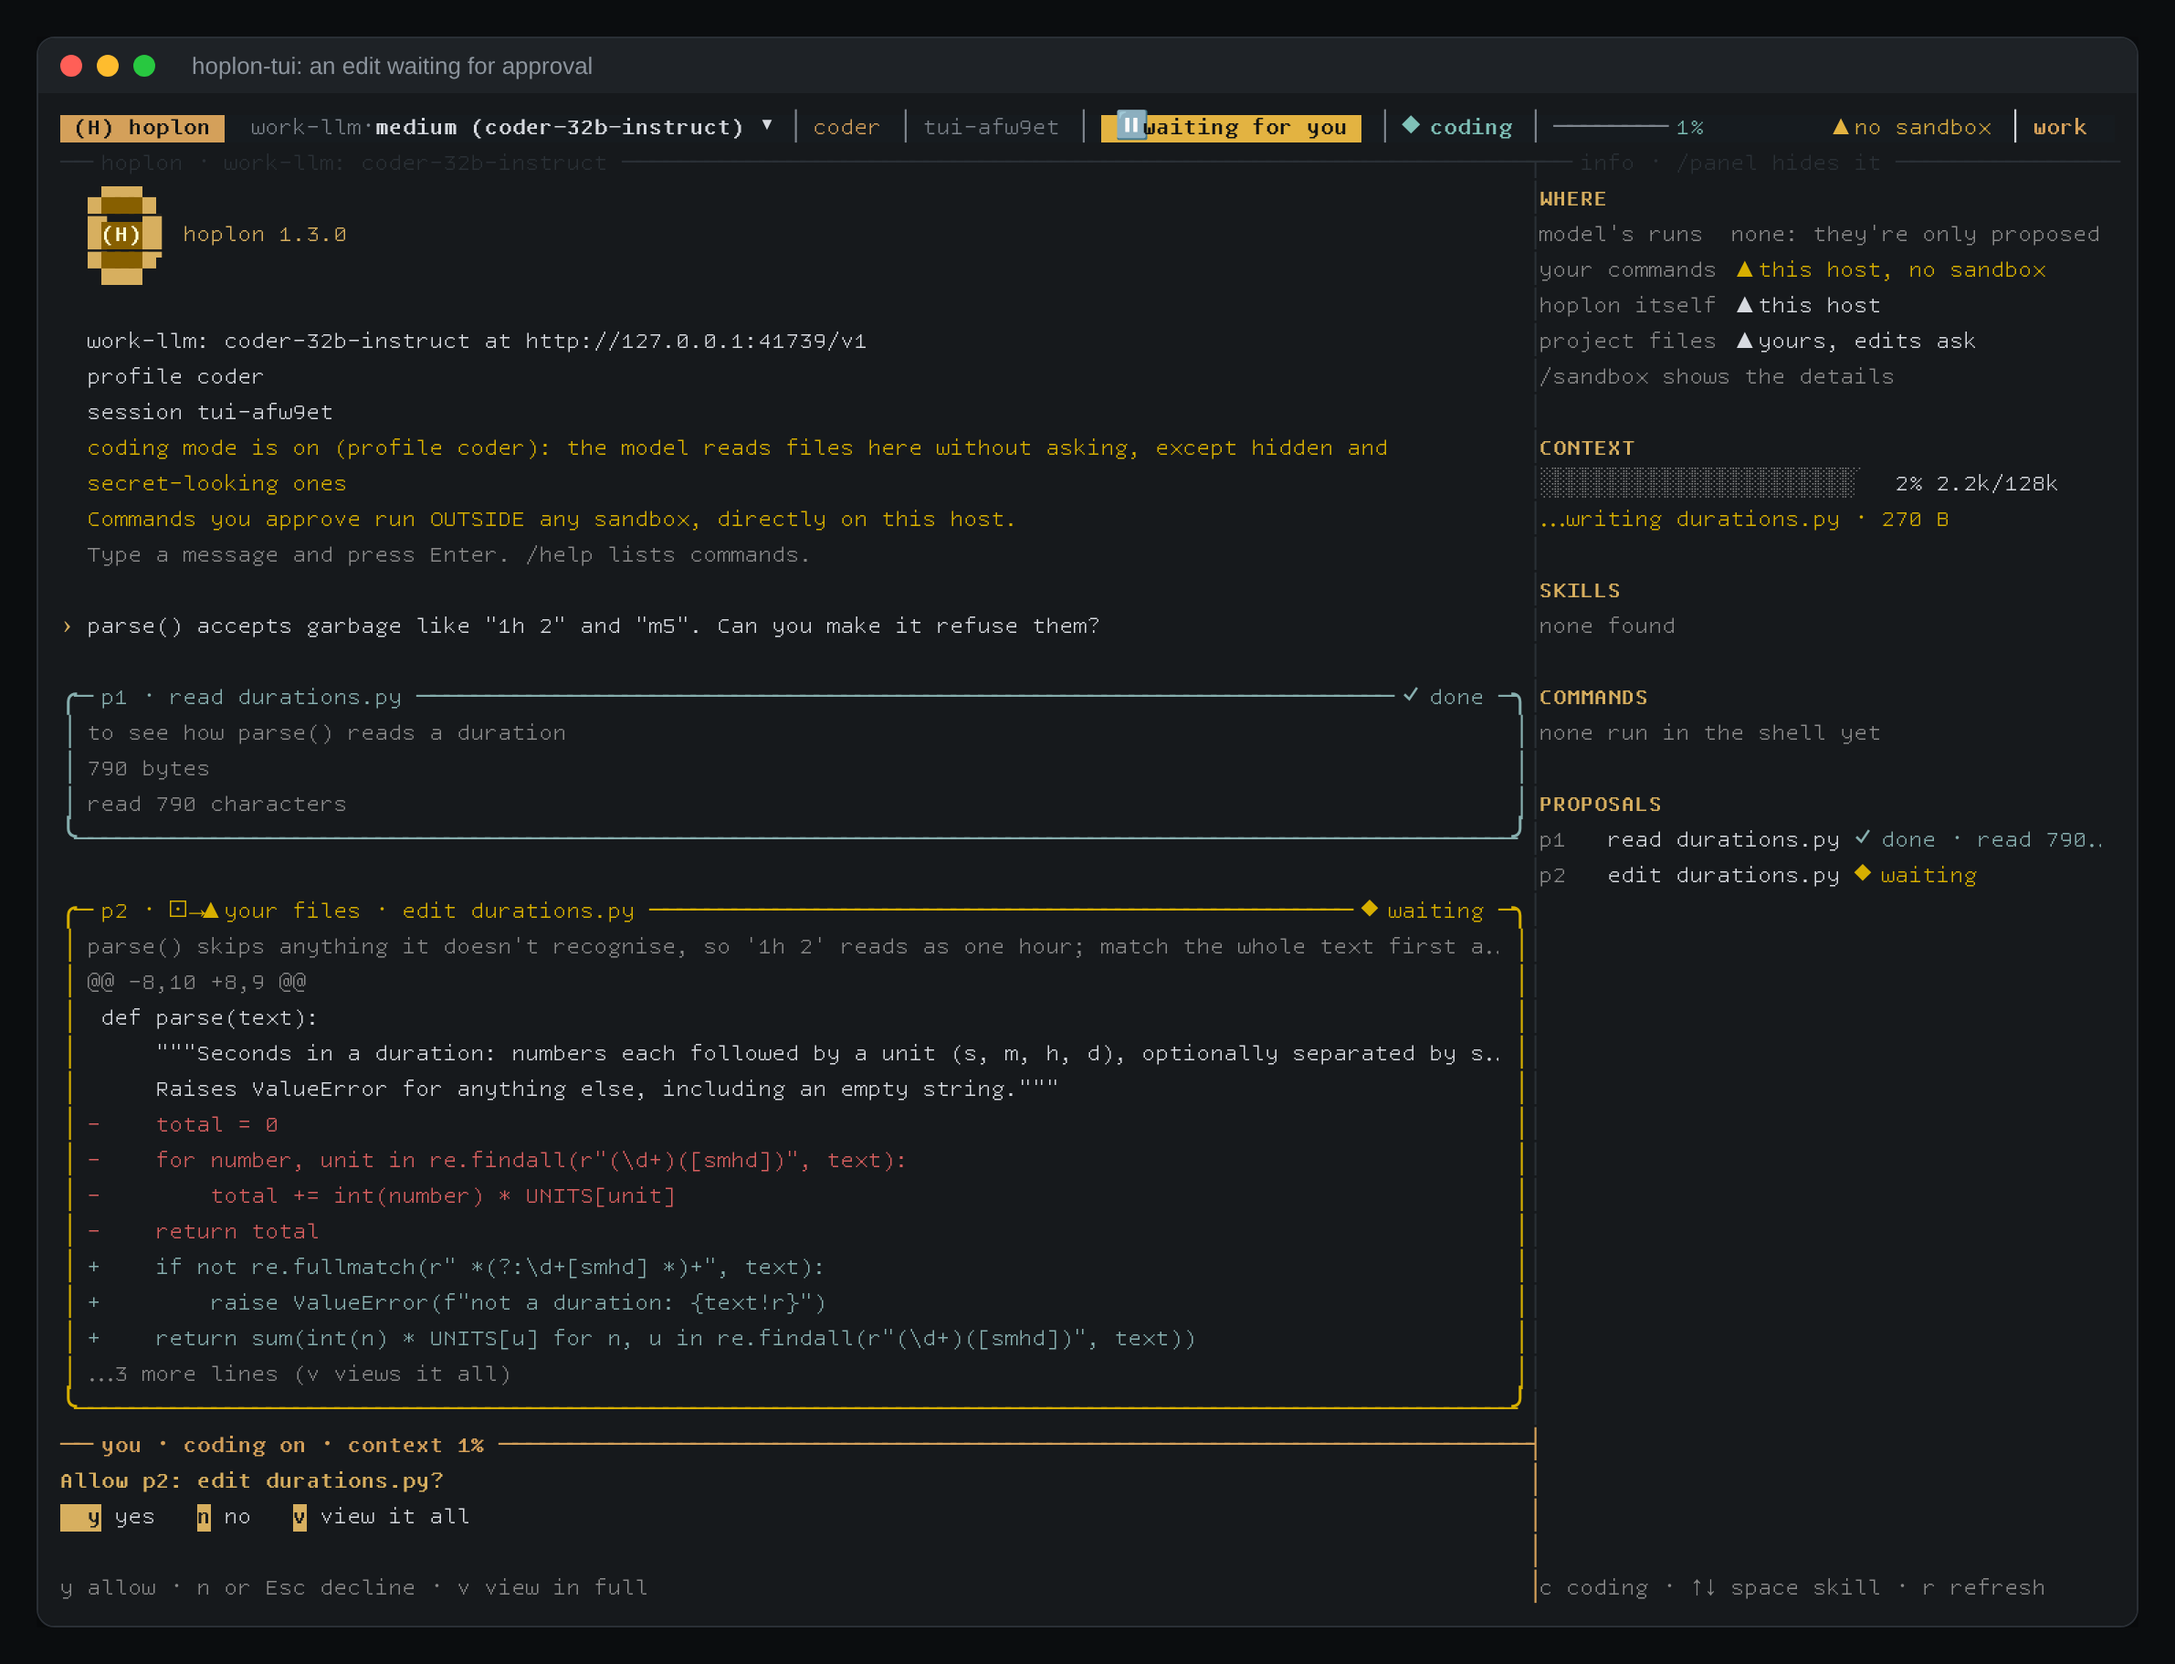
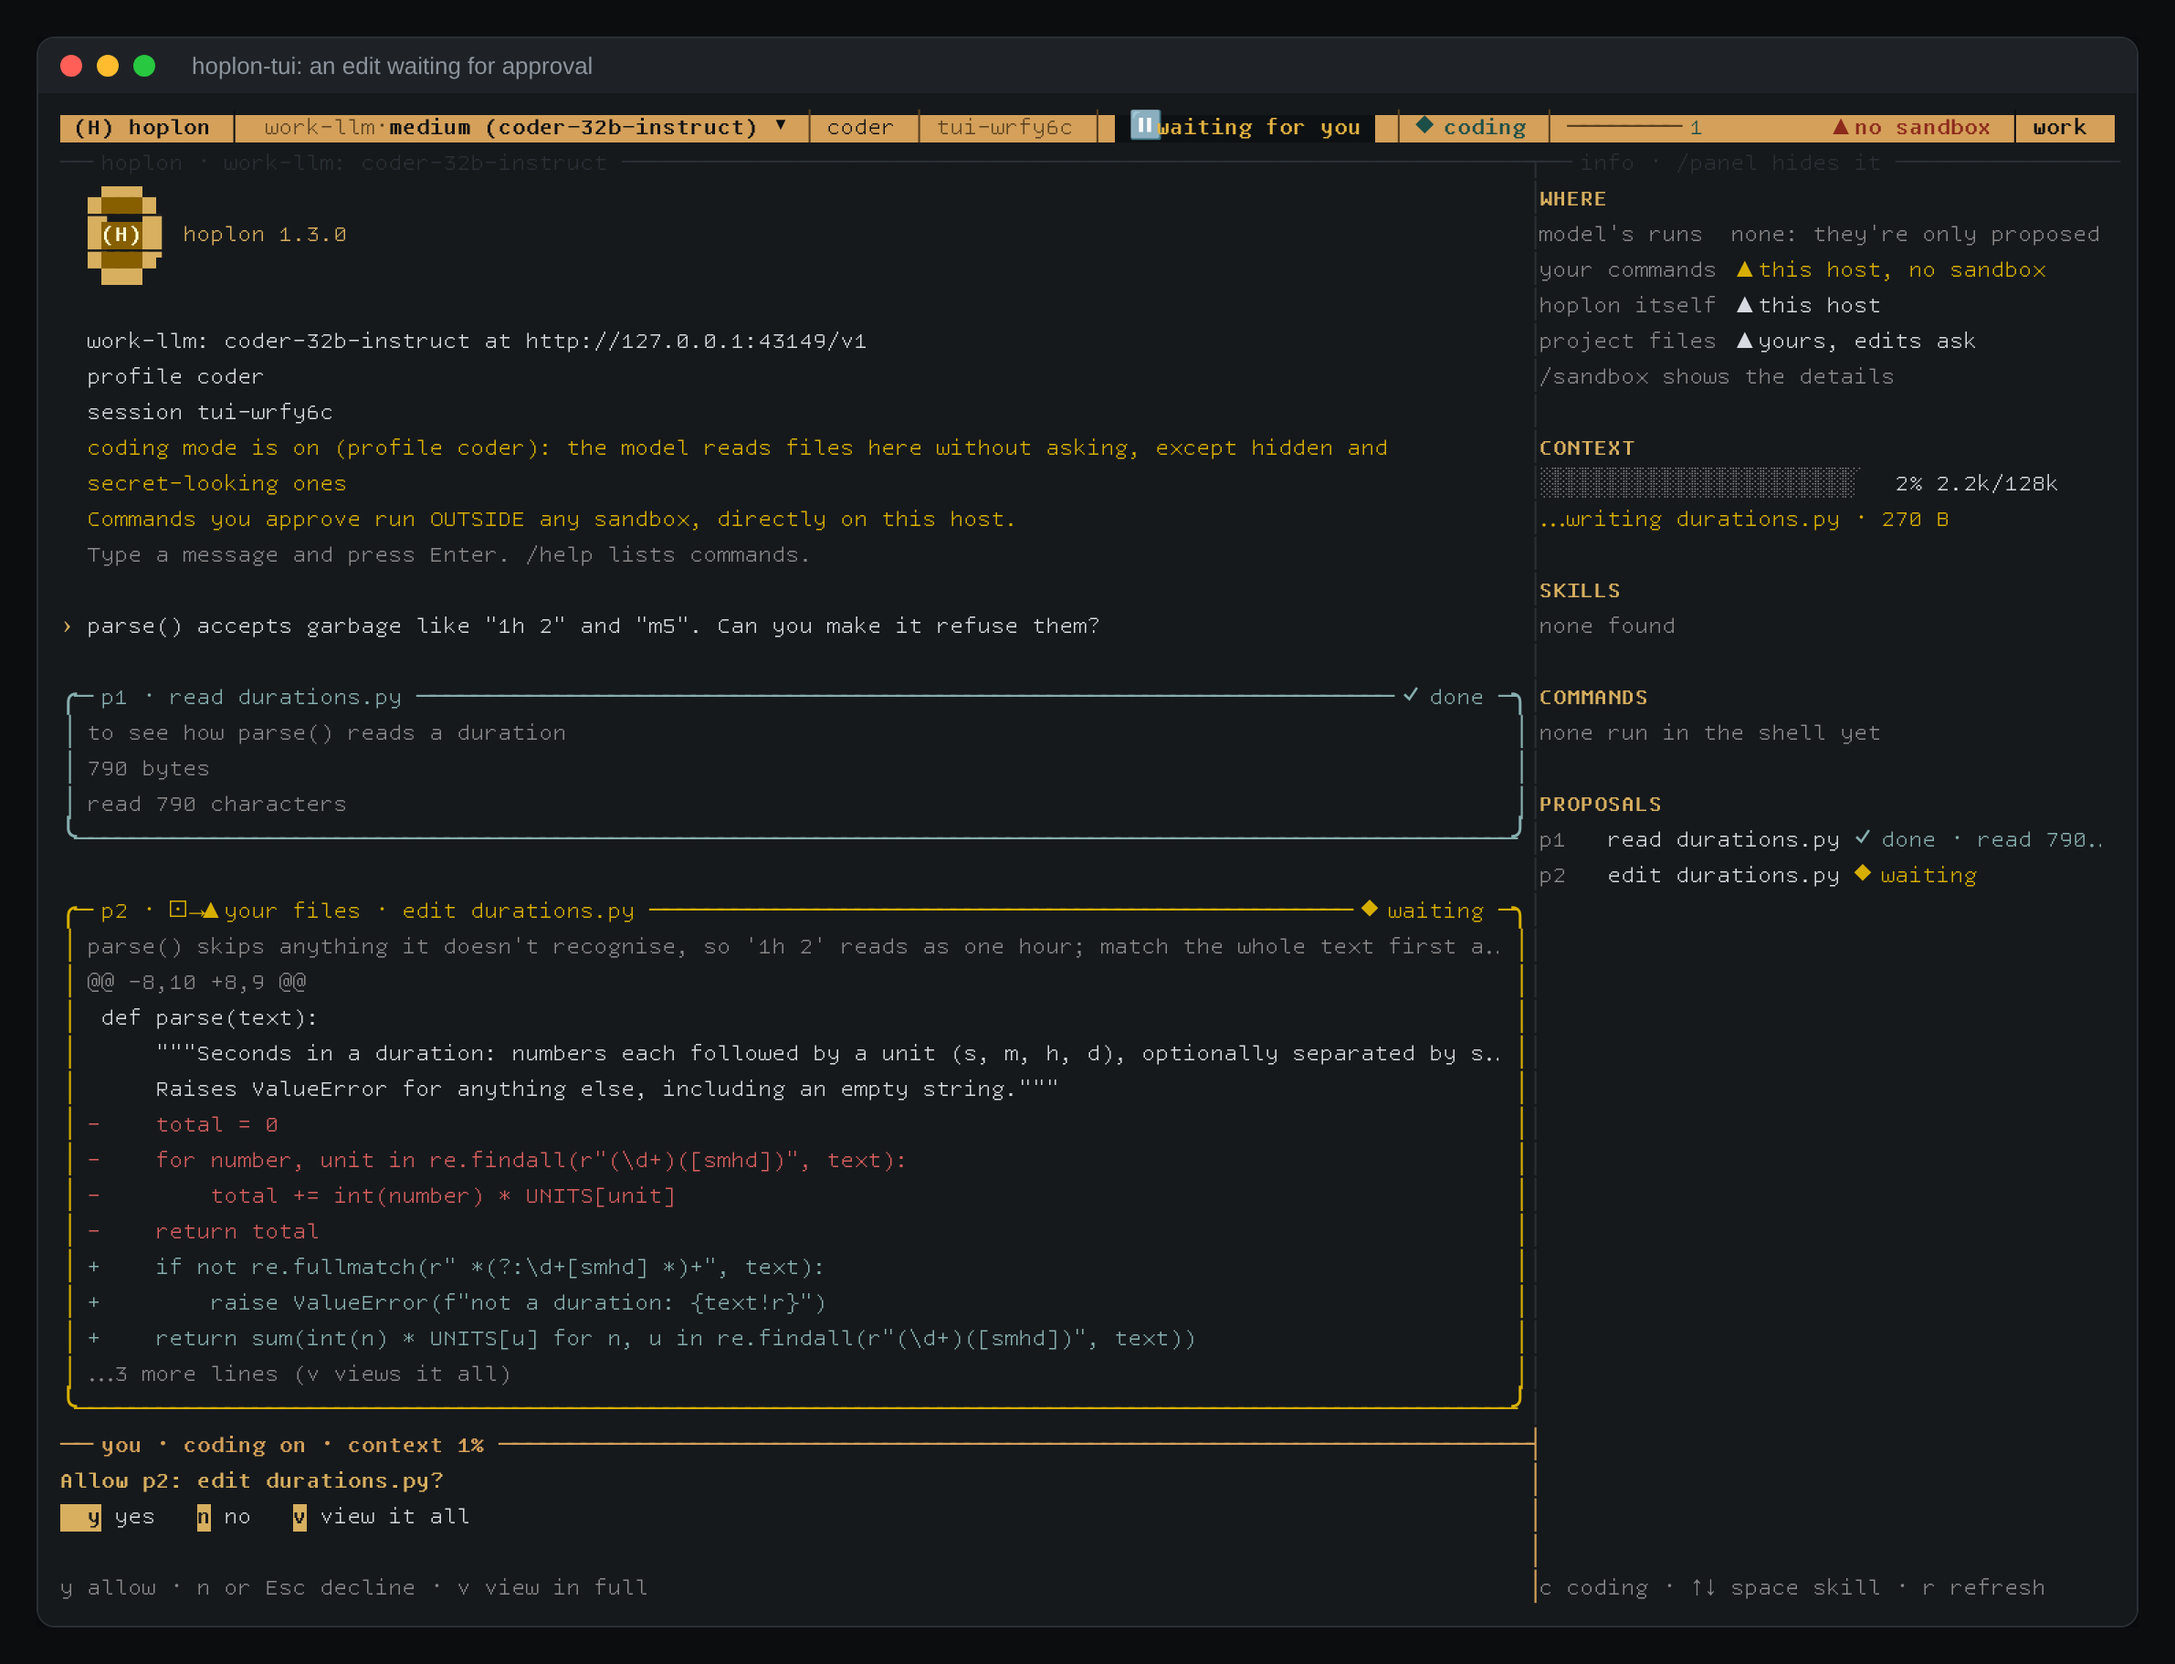
hoplon-tui: the whole header is a bronze band
Only the "(H) hoplon" badge was bronze. Now the whole header is, and its text takes darker tones that read on
bronze (palette.band): iron and umber for most of it, verdigris for ready, coding and the sandbox, oxblood for
no sandbox and a nearly full context. "waiting for you" is a pill of brass on iron, to stand out on the band.
The screenshots are taken again.

Changed region(s): [[0.0932, 0.0615, 0.9941, 0.0922]]

diff --git a/tests/test_tui.py b/tests/test_tui.py
@@ -198,6 +198,11 @@ class TestPalette(unittest.TestCase):
         self.assertEqual(P.tmux("bronze", bold=True, environ={"NO_COLOR": "1"}), "#[bold]")
         self.assertEqual(P.tmux("patina", environ={"NO_COLOR": "1"}), "")
         self.assertEqual(P.tmux("iron", "brass", bold=True, environ={}), "#[fg=#0E1113,bg=#E3B341,bold]")
+        # the header is a bronze band: its text takes the darker tones, and a pill keeps its own colours
+        self.assertEqual(P.band("dim", environ={}), "#[fg=#5B4120]")
+        self.assertEqual(P.band("patina", bold=True, environ={}), "#[fg=#1D4F49,bold]")
+        self.assertEqual(P.band("brass", "iron", environ={}), "#[fg=#E3B341,bg=#0E1113]")
+        self.assertEqual(P.band("ember", environ={"NO_COLOR": "1"}), "")
 
     def test_brass_bronze_and_ember_stay_apart_on_256_colours(self):
         codes = [P.TOKENS[t][1] for t in ("bronze", "brass", "ember", "patina", "dim")]
@@ -715,11 +720,11 @@ class TestSandboxRuns(unittest.TestCase):
         m.handle({"type": "context", "used": 75000, "limit": 100000})
         m.handle({"type": "coding", "on": True})
         h = m.tmux_header()
-        self.assertIn("#[fg=#E3B341]━━━━━━", h)                    # 75%: brass, 6 of 8
+        self.assertIn("#[fg=#0E1113]━━━━━━", h)                    # 75%: dark on the bronze band, 6 of 8
         self.assertIn("75%", h)
         self.assertIn("◆ coding", h)
         m.handle({"type": "context", "used": 95000, "limit": 100000})
-        self.assertIn("#[fg=#E8776A]━━━━━━━━", m.tmux_header())    # 95%: ember
+        self.assertIn("#[fg=#8C2A1C]━━━━━━━━", m.tmux_header())    # 95%: ember
         m.submit("go")
         self.assertIn("● working", m.tmux_header())
 
@@ -871,7 +876,7 @@ class TestSandboxStatus(unittest.TestCase):
         waiting.submit("go")
         waiting.handle({"type": "proposal", "id": "p1", "kind": "write", "path": "a", "content": "x", "reason": "r",
                         "digest": "d"})
-        self.assertIn("#[fg=#0E1113,bg=#E3B341,bold] ⏸ waiting for you", waiting.tmux_header())
+        self.assertIn("#[fg=#E3B341,bg=#0E1113,bold] ⏸ waiting for you", waiting.tmux_header())    # a pill on the band
         self.assertNotIn("waiting", waiting.tmux_status())
         waiting.decide(False)                                   # answered: no longer waiting
         self.assertNotIn("waiting for you", waiting.tmux_header())

diff --git a/tui/conversation.py b/tui/conversation.py
@@ -890,7 +890,7 @@ class Model:
         hold (no "#")."""
         if self.hello is None:
             return ""
-        T = palette.tmux
+        T = palette.band
 
         def safe(v, n=32):
             return re.sub(r"[^A-Za-z0-9._:@/+=-]", "", str(v or ""))[:n]
@@ -910,7 +910,7 @@ class Model:
         if self.exited is not None:
             parts.append(f"{T('ember', bold=True)}■ exited#[default]")
         elif self.pending:
-            parts.append(f"{T('iron', 'brass', bold=True)} ⏸ waiting for you #[default]")
+            parts.append(f"{T('brass', 'iron', bold=True)} ⏸ waiting for you #[default]")
         elif self.busy:
             parts.append(f"{T('brass', bold=True)}● working#[default]")
         else:
@@ -951,14 +951,14 @@ class Model:
     def sandbox_status(self):
         card = self.running_card()
         if card and PROPOSAL_ID.fullmatch(card.id):
-            return f" {palette.tmux('patina', bold=True)}⏵ sandbox {card.id} {card.elapsed()}s#[default] │"
+            return f" {palette.band('patina', bold=True)}⏵ sandbox {card.id} {card.elapsed()}s#[default] │"
         if card:
-            return f" {palette.tmux('patina', bold=True)}⏵ sandbox {card.elapsed()}s#[default] │"
+            return f" {palette.band('patina', bold=True)}⏵ sandbox {card.elapsed()}s#[default] │"
         if self.hello.get("sandbox"):
-            return f" {palette.tmux('patina')}⊡ sandbox#[default] │"
+            return f" {palette.band('patina')}⊡ sandbox#[default] │"
         if self.runner and not self.runner.get("problem"):
-            return f" {palette.tmux('patina')}⊡ model's runs sandboxed#[default] │"
-        return f" {palette.tmux('brass')}▲ no sandbox#[default] │"
+            return f" {palette.band('patina')}⊡ model's runs sandboxed#[default] │"
+        return f" {palette.band('ember', bold=True)}▲ no sandbox#[default] │"
 
     def network_text(self):
         r = self.runner

diff --git a/tui/palette.py b/tui/palette.py
@@ -16,7 +16,9 @@ TOKENS = {
     "patina": ("#7FC1B8", 109, "CYAN"),      # ok, running, done
     "ember":  ("#E8776A", 167, "RED"),       # failed, denied, risky
     "iron":   ("#0E1113", 233, "BLACK"),     # text on a bronze badge
-    "plate":  ("#161B1F", 234, "BLACK"),     # the header's band
+    "umber":  ("#5B4120", 58, "BLACK"),      # quiet text on the bronze header
+    "verdigris": ("#1D4F49", 23, "BLACK"),   # ok on the bronze header
+    "oxblood": ("#8C2A1C", 88, "RED"),       # risk on the bronze header
     "field":  ("#6E4A24", 94, "BLACK"),      # the logo's field, inside the bronze rim
     "ivory":  ("#F3EBDD", 230, "WHITE"),     # the logo's (H)
 }
@@ -76,6 +78,17 @@ def logo(text=""):
     return [[("▄", "rim"), ("▄▄▄", "rim_field"), ("▄", "rim")],
             [("█", "rim"), ("(H)", "mark"), ("█", "rim")] + ([("  " + text, "accent")] if text else []),
             [("▀", "rim"), ("▀▀▀", "rim_field"), ("▀", "rim")]]
+
+
+# The header is a bronze band, so its text takes darker tones than the panes' (band()).
+BAND = {"dim": "umber", "muted": "umber", "bronze": "iron", "brass": "iron", "patina": "verdigris",
+        "ember": "oxblood", "iron": "iron"}
+
+
+def band(fg=None, bg=None, bold=False, environ=None):
+    """tmux() for text on the bronze header: each tone as it reads on bronze. With a bg of its own (a pill, such as
+    "waiting for you"), the colours are taken as they are."""
+    return tmux(fg if bg else BAND.get(fg, fg), bg, bold, environ)
 
 
 def tmux(fg=None, bg=None, bold=False, environ=None):

diff --git a/docs/hoplon-tui.md b/docs/hoplon-tui.md
@@ -158,10 +158,10 @@ turn the bell into an alert or a highlighted window. `/alerts off` silences the 
 the start, and `HOPLON_TUI_ALERTS=off` or `on` overrides that for one run. The header shows
 `⏸ waiting for you` either way. (hoplon's notify hook doesn't run under hoplon-tui.)
 
-The header, along the top, shows the endpoint and model (click the model, `▾`, to pick another, as
+The header, a bronze band along the top, shows the endpoint and model (click the model, `▾`, to pick another, as
 `/model` does), the profile and session, what hoplon is doing (`● ready`, `● working`, `⏸ waiting
-for you`), coding mode or chat, a work session's item, and a context gauge that turns brass at 70%
-and ember at 90%. On its right are the sandbox and the host, and tmux's keys when the terminal is
+for you`), coding mode or chat, a work session's item, and a context gauge that turns from green to black at 70%
+and red at 90%. On its right are the sandbox and the host, and tmux's keys when the terminal is
 wide enough.
 
 ![The model menu: the endpoint's aliases first, each with the model it sends to, then the server's models](images/tui-models.png)
